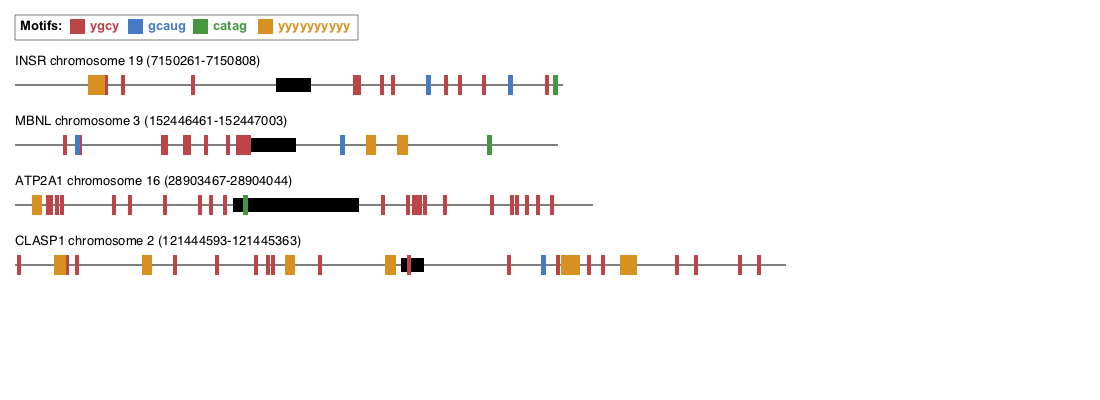
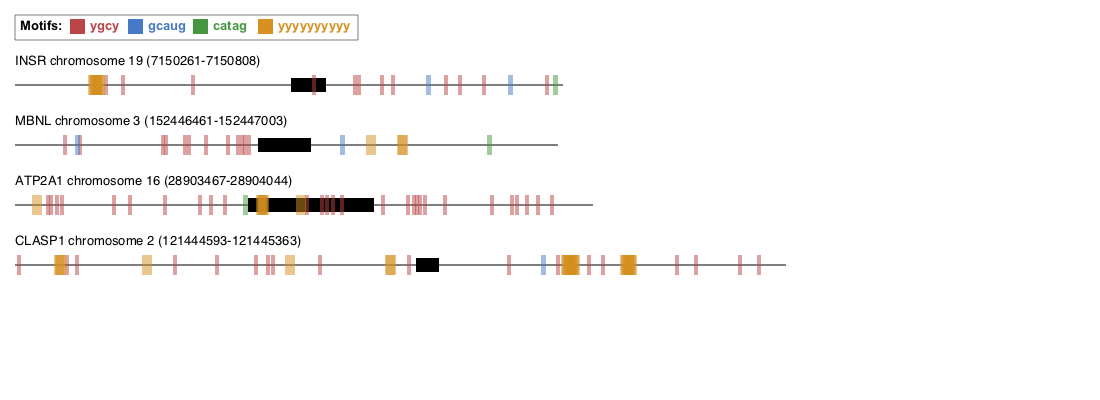
added transparency, fixed exon position, and missing motifs in the exon part

diff --git a/motif-mark-oop.py b/motif-mark-oop.py
@@ -36,11 +36,16 @@ class Motif:
         """This function takes a Sequence object and returns a list of the positions of the motif in the given sequence."""
         positions = []
         pattern = re.compile(self.motif_regex)
-        match = pattern.search(Sequence.sequence)
+        match = pattern.search(Sequence.sequence.lower())
         while match:
             positions.append(match.start())
-            match = pattern.search(Sequence.sequence, match.start() + 1) # takes care of overlaps 
+            match = pattern.search(Sequence.sequence.lower(), match.start() + 1) # takes care of overlaps 
         return positions
+
+    def set_color(self, color):
+        """This function sets the color of the motif for drawingg."""
+        self.color = color
+
 
 class Sequence:
     def __init__(self, header, sequence):
@@ -139,8 +144,8 @@ class MotifMark:
         self.context.stroke()
 
     def draw_exon(self, seq):
-        """This function draws the exon rectange for a Sequence objects"""
-        rect_start_x = seq.exon_start  
+        """This function draws the exon rectangle for a Sequence objects"""
+        rect_start_x = self.draw_position_x + seq.exon_start 
         rect_start_y = self.draw_position_y - 7
         rect_length = seq.exon_length 
         rect_width = 14
@@ -153,8 +158,11 @@ class MotifMark:
         """This function draws out the motifs for a Sequence objects"""
         for c,m in enumerate(self.motif_objs):
             positions = m.find_motif(seq)
-            m.color = colors[c]
-            self.context.set_source_rgb(m.color[0], m.color[1], m.color[2])
+            print(seq.header)
+            print(m.motif)
+            print(positions)
+            m.set_color(colors[c])
+            self.context.set_source_rgba(m.color[0], m.color[1], m.color[2], 0.5)
             for p in positions:     
                 self.context.rectangle(self.draw_position_x + p, self.draw_position_y - 10, len(m.motif), 20)
                 self.context.fill()
@@ -223,6 +231,6 @@ args = get_args()
 fasta= args.fasta
 motifs = args.motifs
 
-
+# create MotifMark object with fasta and motif file as inputs and generate the output image 
 mm = MotifMark(fasta, motifs)
 mm.generate_image()
